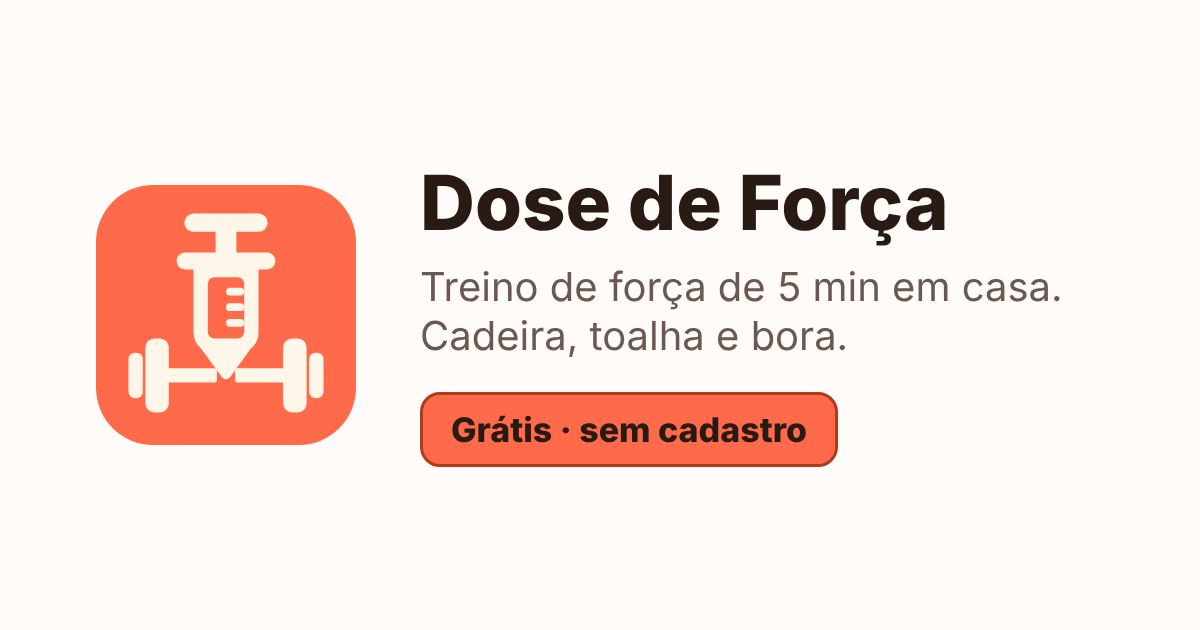
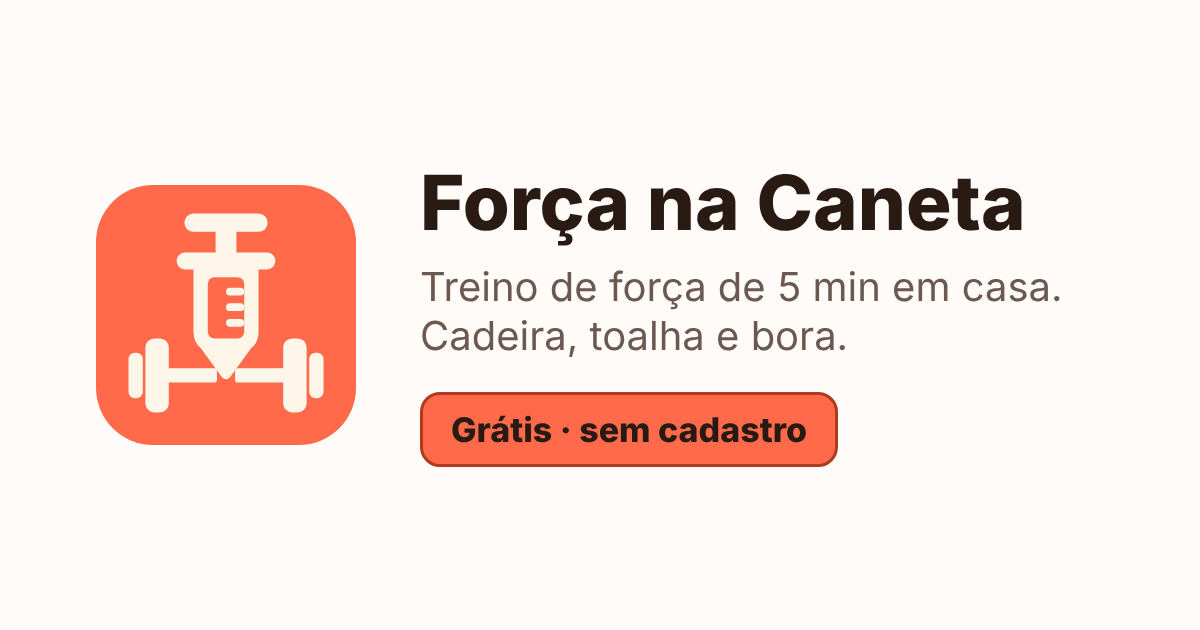
Volta ao nome Força na Caneta
- Nome restaurado em todo o app, termos, manifesto, prévia do link,
  lembrete .ics e documentação; logo seringa + haltere mantido
- Nome curto sob o ícone: "Força" (não corta no iPhone)
- Nível 3 continua "Força Total" (não repete o nome do app)
- Código de recuperação volta a FNC-15 (DOSE-15 continua aceito)
- Frases originais restauradas; service worker fnc-v11

Claude-Session: https://claude.ai/code/session_01UvW37fUdBDK26PN75W5T6a

Changed region(s): [[0.3392, 0.2714, 0.8633, 0.3921]]

diff --git a/index.html b/index.html
@@ -3,7 +3,7 @@
 <head>
 <meta charset="utf-8">
 <meta name="viewport" content="width=device-width, initial-scale=1, viewport-fit=cover">
-<title>Dose de Força: treino de força de 5 minutos em casa</title>
+<title>Força na Caneta: treino de força de 5 minutos em casa</title>
 <meta name="description" content="Treino de força gratuito de 5 minutos, em casa, com uma cadeira e uma toalha. Sem cadastro, com voz e legendas, e funciona sem internet.">
 <link rel="canonical" href="https://renanbonavita.github.io/forca-na-caneta/">
 <meta name="referrer" content="strict-origin-when-cross-origin">
@@ -13,7 +13,7 @@
 {
   "@context": "https://schema.org",
   "@type": "WebApplication",
-  "name": "Dose de Força",
+  "name": "Força na Caneta",
   "url": "https://renanbonavita.github.io/forca-na-caneta/",
   "description": "Treino de força gratuito de 5 minutos em casa, com cadeira e toalha, com voz, legendas e funcionamento sem internet.",
   "inLanguage": "pt-BR",
@@ -29,7 +29,7 @@
   "@context": "https://schema.org",
   "@type": "FAQPage",
   "mainEntity": [
-    { "@type": "Question", "name": "O Dose de Força é gratuito?", "acceptedAnswer": { "@type": "Answer", "text": "Sim. É gratuito e sem cadastro." } },
+    { "@type": "Question", "name": "O Força na Caneta é gratuito?", "acceptedAnswer": { "@type": "Answer", "text": "Sim. É gratuito e sem cadastro." } },
     { "@type": "Question", "name": "Preciso de equipamento?", "acceptedAnswer": { "@type": "Answer", "text": "Não. Só uma cadeira firme encostada na parede e uma toalha." } },
     { "@type": "Question", "name": "Funciona sem internet?", "acceptedAnswer": { "@type": "Answer", "text": "Sim. Depois de aberto uma vez com internet, o app guarda tudo no celular e abre mesmo sem sinal." } },
     { "@type": "Question", "name": "Substitui o acompanhamento profissional?", "acceptedAnswer": { "@type": "Answer", "text": "Não. Os exercícios são genéricos e não substituem avaliação médica, nutricional ou de profissional de educação física." } }
@@ -40,7 +40,7 @@
 <meta property="og:url" content="https://renanbonavita.github.io/forca-na-caneta/">
 <meta property="og:type" content="website">
 <meta property="og:locale" content="pt_BR">
-<meta property="og:title" content="Dose de Força: treino de força de 5 minutos em casa">
+<meta property="og:title" content="Força na Caneta: treino de força de 5 minutos em casa">
 <meta property="og:description" content="Cadeira, toalha e 5 minutos. Grátis, sem cadastro, funciona sem internet.">
 <meta property="og:image" content="https://renanbonavita.github.io/forca-na-caneta/og-image.png">
 <meta property="og:image:width" content="1200">
@@ -52,7 +52,7 @@
 <meta name="apple-mobile-web-app-capable" content="yes">
 <meta name="mobile-web-app-capable" content="yes">
 <meta name="apple-mobile-web-app-status-bar-style" content="default">
-<meta name="apple-mobile-web-app-title" content="Dose de Força">
+<meta name="apple-mobile-web-app-title" content="Força">
 <link rel="stylesheet" href="styles.css">
 </head>
 <body>
@@ -75,7 +75,7 @@
   <div class="texto">
     <img class="logo-sobre" src="icons/logo.svg" alt="" width="64" height="64">
     <h1 id="titulo-aviso">Antes de começar</h1>
-    <p>O app Dose de Força traz exercícios genéricos de força, sem orientação individual. Ele não substitui avaliação médica, nutricional ou de profissional de educação física. Responsável técnico: <span data-rt-nome></span>, CREF <span data-rt-cref></span>.</p>
+    <p>O Força na Caneta traz exercícios genéricos de força, sem orientação individual. Ele não substitui avaliação médica, nutricional ou de profissional de educação física. Responsável técnico: <span data-rt-nome></span>, CREF <span data-rt-cref></span>.</p>
     <ul class="lista-cuidados">
       <li>Converse com seu médico antes de começar, principalmente se você usa medicação para emagrecer ou tem alguma condição de saúde.</li>
       <li>Levante-se sempre devagar: tontura ao ficar em pé pode acontecer, sobretudo com pouca comida ou pouca água.</li>
@@ -93,7 +93,7 @@
 <!-- ===== INÍCIO ===== -->
 <main id="inicio" class="tela" aria-label="Início">
   <div class="marca">
-    <img class="logo-marca" src="icons/logo.svg" alt="" width="28" height="28"><span>Dose de Força</span>
+    <img class="logo-marca" src="icons/logo.svg" alt="" width="28" height="28"><span>Força na Caneta</span>
     <button class="botao-instalar" id="botao-instalar" type="button" hidden><svg class="ic ic-18"><use href="#i-baixar"/></svg>Usar sem internet</button>
   </div>
   <p id="slogan" class="slogan"><span>A caneta já fez a parte dela.</span><span>Agora é hora de fortalecer.</span></p>
@@ -178,7 +178,7 @@
   <button class="voltar" type="button" data-voltar>← Voltar</button>
   <div class="texto">
     <img class="logo-sobre" src="icons/logo.svg" alt="" loading="lazy" width="64" height="64">
-    <h1>Sobre o Dose de Força</h1>
+    <h1>Sobre o Força na Caneta</h1>
     <p>Um treino de força de <strong>5 minutos</strong>, em casa, com uma cadeira e uma toalha. Você toca em BORA e a voz guia cada movimento.</p>
     <p class="fraco">Os exercícios são genéricos e não substituem avaliação médica, nutricional ou de profissional de educação física. Responsável técnico: <span data-rt-nome></span>, CREF <span data-rt-cref></span>.</p>
 
@@ -215,18 +215,18 @@
       <ol>
         <li>Toque no menu <strong>⋮</strong> no canto superior.</li>
         <li>Toque em <strong>Instalar app</strong> ou <strong>Adicionar à tela inicial</strong>.</li>
-        <li>Confirme. O ícone Dose de Força aparece junto com seus apps.</li>
+        <li>Confirme. O ícone Força na Caneta aparece junto com seus apps.</li>
       </ol>
       <p class="u-mt14 fraco">No iPhone, o app instalado pode começar a contagem do zero. Se acontecer, use <a href="#sobre/codigo">Meu código</a>.</p>
     </details>
 
     <details class="secao" id="sobre-lembretes">
       <summary><h2>Lembretes</h2></summary>
-      <p>Um lembrete de segunda a sexta na agenda do celular: <strong>“Treino Dose de Força – 5 min”</strong>.</p>
+      <p>Um lembrete de segunda a sexta na agenda do celular: <strong>“Treino Força na Caneta – 5 min”</strong>.</p>
       <label class="rotulo-campo" for="hora-lembrete">Que horas?</label>
       <select class="campo" id="hora-lembrete"></select>
       <div class="botoes-linha">
-        <a class="botao-link" id="link-ics" download="lembrete-dose-de-forca.ics" href="#">Adicionar à agenda</a>
+        <a class="botao-link" id="link-ics" download="lembrete-forca-na-caneta.ics" href="#">Adicionar à agenda</a>
         <a class="botao-link" id="link-google" target="_blank" rel="noopener" href="#">Usar o Google Agenda</a>
       </div>
       <p class="u-mt8 fraco u-texto-menor">No iPhone, o arquivo abre no app Calendário: toque em “Adicionar”.</p>
@@ -242,7 +242,7 @@
         </div>
       </div>
       <p>Se o celular apagar sua contagem, este código recupera:</p>
-      <p class="codigo" id="codigo-texto">DOSE-0</p>
+      <p class="codigo" id="codigo-texto">FNC-0</p>
       <label class="rotulo-campo" for="codigo-link">Link de recuperação</label>
       <input class="campo" id="codigo-link" readonly>
       <div class="botoes-linha">
@@ -250,7 +250,7 @@
       </div>
       <p id="copiado" class="u-mt8 fraco" role="status"></p>
       <label class="rotulo-campo u-mt14" for="codigo-entrada">Tem um código? Digite aqui:</label>
-      <input class="campo" id="codigo-entrada" placeholder="DOSE-15" autocomplete="off" autocapitalize="characters">
+      <input class="campo" id="codigo-entrada" placeholder="FNC-15" autocomplete="off" autocapitalize="characters">
       <div class="botoes-linha">
         <button class="botao-link" type="button" id="btn-usar-codigo">Restaurar</button>
       </div>

diff --git a/js/logica.js b/js/logica.js
@@ -1,4 +1,4 @@
-// Lógica pura do Dose de Força (sem DOM). Usada pelo app e pelos testes.
+// Lógica pura do Força na Caneta (sem DOM). Usada pelo app e pelos testes.
 
 // Duração fixa: 30 s + 4 × (40 s + 20 s) + 30 s = 300 s = 5 min.
 export const DURACAO = Object.freeze({ aquecimento: 30, exercicio: 40, descanso: 20, desaquecimento: 30 });
@@ -75,7 +75,7 @@ export function sortearTreino(exercicios, nivel, idsAnteriores = [], rnd = Math.
 }
 
 // ---------- Código de recuperação ----------
-export const codigoDe = (treinos) => `DOSE-${treinos}`;
+export const codigoDe = (treinos) => `FNC-${treinos}`;
 export function lerCodigo(texto) {
   const m = String(texto || '').trim().match(/^(?:DOSE|FNC)[\s-]?(\d{1,4})$/i);
   return m ? Number(m[1]) : null;
@@ -102,7 +102,7 @@ const fmtLocal = (d) => `${d.getFullYear()}${doisDig(d.getMonth() + 1)}${doisDig
 const fmtUTC = (d) => d.toISOString().replace(/[-:]/g, '').replace(/\.\d{3}/, '');
 const escaparICS = (s) => String(s).replace(/\\/g, '\\\\').replace(/;/g, '\\;').replace(/,/g, '\\,').replace(/\n/g, '\\n');
 
-export const TITULO_LEMBRETE = 'Treino Dose de Força – 5 min';
+export const TITULO_LEMBRETE = 'Treino Força na Caneta – 5 min';
 
 /** Gera um .ics com evento recorrente de segunda a sexta (horário local "flutuante"). */
 export function gerarICS({ hora, minuto, url = '', agora = new Date() }) {
@@ -110,11 +110,11 @@ export function gerarICS({ hora, minuto, url = '', agora = new Date() }) {
   const linhas = [
     'BEGIN:VCALENDAR',
     'VERSION:2.0',
-    'PRODID:-//Dose de Forca//Lembrete//PT-BR',
+    'PRODID:-//Forca na Caneta//Lembrete//PT-BR',
     'CALSCALE:GREGORIAN',
     'METHOD:PUBLISH',
     'BEGIN:VEVENT',
-    `UID:fnc-${fmtUTC(agora)}-${doisDig(hora)}${doisDig(minuto)}@dosedeforca`,
+    `UID:fnc-${fmtUTC(agora)}-${doisDig(hora)}${doisDig(minuto)}@forcanacaneta`,
     `DTSTAMP:${fmtUTC(agora)}`,
     `DTSTART:${fmtLocal(inicio)}`,
     'DURATION:PT5M',

diff --git a/termos.html b/termos.html
@@ -3,7 +3,7 @@
 <head>
 <meta charset="utf-8">
 <meta name="viewport" content="width=device-width, initial-scale=1, viewport-fit=cover">
-<title>Termos de uso · Dose de Força</title>
+<title>Termos de uso · Força na Caneta</title>
 <meta http-equiv="Content-Security-Policy" content="default-src 'self'; script-src 'self'; style-src 'self'; img-src 'self' data:; connect-src 'self'; object-src 'none'; base-uri 'self'; form-action 'none'">
 <meta name="theme-color" content="#FFFBF8">
 <link rel="icon" type="image/svg+xml" href="icons/favicon.svg">
@@ -16,8 +16,8 @@
     <h1>Termos de uso e privacidade</h1>
     <p class="fraco">Última atualização: <span class="marcador-inline">[DATA]</span></p>
 
-    <h2>1. O que é o Dose de Força</h2>
-    <p>O Dose de Força é um site gratuito com treinos de força de 5 minutos, feitos em casa com uma cadeira e uma toalha. Os exercícios são genéricos, sem orientação individual, e não substituem avaliação médica, nutricional ou de profissional de educação física.</p>
+    <h2>1. O que é o Força na Caneta</h2>
+    <p>O Força na Caneta é um site gratuito com treinos de força de 5 minutos, feitos em casa com uma cadeira e uma toalha. Os exercícios são genéricos, sem orientação individual, e não substituem avaliação médica, nutricional ou de profissional de educação física.</p>
 
     <h2>2. Responsável técnico</h2>
     <p>Os exercícios foram selecionados e revisados por:<br>

diff --git a/app.js b/app.js
@@ -1,4 +1,4 @@
-// Dose de Força — app principal (vanilla JS, sem backend).
+// Força na Caneta — app principal (vanilla JS, sem backend).
 import {
   DURACAO, montarLinhaDoTempo, duracaoTotal, sortearTreino, nivelDoTreino, nomeDoNivel,
   codigoDe, lerCodigo, lerHashTreino, hojeISO, gerarICS, linkGoogleAgenda,
@@ -762,7 +762,7 @@ function ligarEventos() {
   $('#btn-copiar').addEventListener('click', () => copiarTexto($('#codigo-link').value));
   $('#btn-usar-codigo').addEventListener('click', () => {
     const n = lerCodigo($('#codigo-entrada').value);
-    if (n == null) { $('#codigo-erro').textContent = 'Código inválido. Ele tem o formato DOSE-15.'; return; }
+    if (n == null) { $('#codigo-erro').textContent = 'Código inválido. Ele tem o formato FNC-15.'; return; }
     $('#codigo-erro').textContent = '';
     restaurarPendente = n;
     prepararSobre();

diff --git a/sw.js b/sw.js
@@ -1,6 +1,6 @@
-// Service worker do Dose de Força: funciona offline.
+// Service worker do Força na Caneta: funciona offline.
 // Ao publicar mudanças, aumente a VERSAO para os celulares baixarem a versão nova.
-const VERSAO = 'fnc-v10';
+const VERSAO = 'fnc-v11';
 
 const ESSENCIAIS = [
   './', 'index.html', 'styles.css', 'app.js', 'js/logica.js',

diff --git a/ROTEIRO-GRAVACAO.md b/ROTEIRO-GRAVACAO.md
@@ -1,4 +1,4 @@
-# Roteiro de gravação — Dose de Força
+# Roteiro de gravação — Força na Caneta
 
 > Arquivo gerado por `node tools/gerar-roteiro.mjs`. Se mudar exercícios ou frases, gere de novo.
 
@@ -124,7 +124,7 @@ O número do arquivo segue a ordem da lista no `config.json` (01 = primeira fras
 | `audio/durante-04.mp3` | Devagar é chique. Controle é tudo. |
 | `audio/durante-05.mp3` | Tá indo lindamente. Sem pressa, com força. |
 | `audio/durante-06.mp3` | Cada repetição é um tijolinho de força. |
-| `audio/durante-07.mp3` | Essa é a sua dose de força do dia! |
+| `audio/durante-07.mp3` | Força na caneta e no braço também! |
 | `audio/durante-08.mp3` | Ninguém tá olhando: pode fazer careta à vontade. |
 | `audio/durante-09.mp3` | Barriga firme, como quem vai fechar a calça jeans. |
 | `audio/durante-10.mp3` | Músculo não tem idade, tem treino. |
@@ -170,7 +170,7 @@ O número do arquivo segue a ordem da lista no `config.json` (01 = primeira fras
 
 | Arquivo | Texto |
 |---|---|
-| `audio/conclusao-01.mp3` | Dose de força tomada! Cinco minutos de pura energia |
+| `audio/conclusao-01.mp3` | Cinco minutos de pura força na caneta |
 | `audio/conclusao-02.mp3` | Treino feito! Pode contar pra todo mundo (ou guardar só pra você). |
 | `audio/conclusao-03.mp3` | Mais forte que ontem. Simples assim. |
 | `audio/conclusao-04.mp3` | Cinco minutos que valem ouro. Parabéns! |

diff --git a/README.md b/README.md
@@ -1,4 +1,4 @@
-# Dose de Força 💪
+# Força na Caneta 💪
 
 Um web app (PWA) gratuito de treinos de força de **5 minutos**, feitos em casa com **cadeira e toalha**. Não tem cadastro e não tem backend: são só arquivos estáticos, então a hospedagem pode ser gratuita.
 
@@ -129,7 +129,7 @@ Para ver os eventos no console do navegador enquanto testa, use `"debug": true`.
 No `config.json`:
 ```json
 "responsavel_tecnico": { "nome": "Fulana de Tal", "cref": "012345-G/SP" },
-"contato_email": "contato@dosedeforca.com.br"
+"contato_email": "contato@forcanacaneta.com.br"
 ```
 O nome aparece no aviso inicial, no rodapé e nos termos.
 
@@ -153,7 +153,7 @@ O `index.html` tem uma política de segurança (Content-Security-Policy) que só
 
 ### Patrocinador de proteína
 ```json
-"patrocinio": { "marca": "Marca X", "link": "https://marca-x.com.br/?utm_source=dosedeforca", "texto": "Hidrate-se e garanta sua proteína — apoio" }
+"patrocinio": { "marca": "Marca X", "link": "https://marca-x.com.br/?utm_source=forcanacaneta", "texto": "Hidrate-se e garanta sua proteína — apoio" }
 ```
 Resultado na tela final (linha discreta abaixo do card): *"Hidrate-se e garanta sua proteína — apoio **Marca X**"* (com link). Se `marca` ficar vazia, a linha some.
 

diff --git a/TESTES.md b/TESTES.md
@@ -18,7 +18,7 @@ Antes de testar, abra uma vez `SEU-SITE/?c=demo` para ligar o modo clínica.
 - [ ] Legenda e botões ficam sempre visíveis na parte de baixo do treino, sem rolar.
 
 ## iPhone — tela de início
-- [ ] "Usar sem internet" (topo) abre os passos; seguir os passos instala o ícone **Dose de Força**.
+- [ ] "Usar sem internet" (topo) abre os passos; seguir os passos instala o ícone **Força na Caneta**.
 - [ ] Dentro do app instalado, "Usar sem internet" **não** aparece.
 - [ ] Abrir pelo ícone: abre sem a barra do Safari.
 - [ ] A contagem começou do zero? Se sim, usar "Meu código" (anotado antes) e restaurar.
@@ -36,7 +36,7 @@ Antes de testar, abra uma vez `SEU-SITE/?c=demo` para ligar o modo clínica.
 - [ ] "Lembretes" → "Usar o Google Agenda" cria o evento recorrente.
 
 ## Código de recuperação
-- [ ] Fazer 2 treinos → rodapé "Meu código" mostra DOSE-2 → "Copiar link".
+- [ ] Fazer 2 treinos → rodapé "Meu código" mostra FNC-2 → "Copiar link".
 - [ ] Abrir o link em outra aba anônima → abre "Meu código" perguntando "Restaurar para o treino 2?" → Sim → Voltar → mostra "Treino nº 3".
 
 ## Acessibilidade
